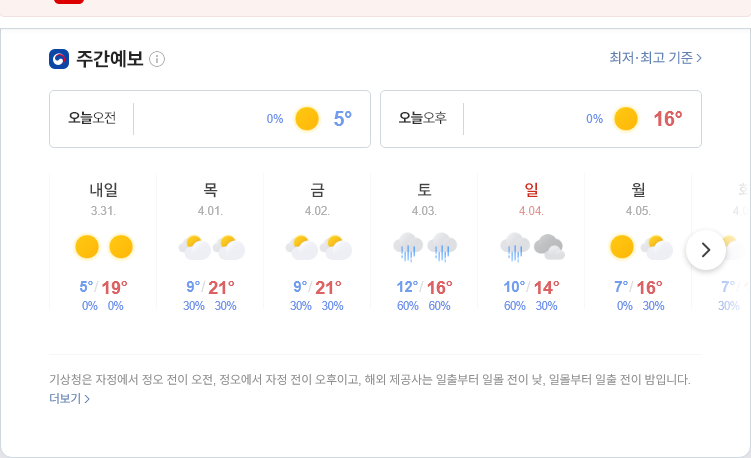
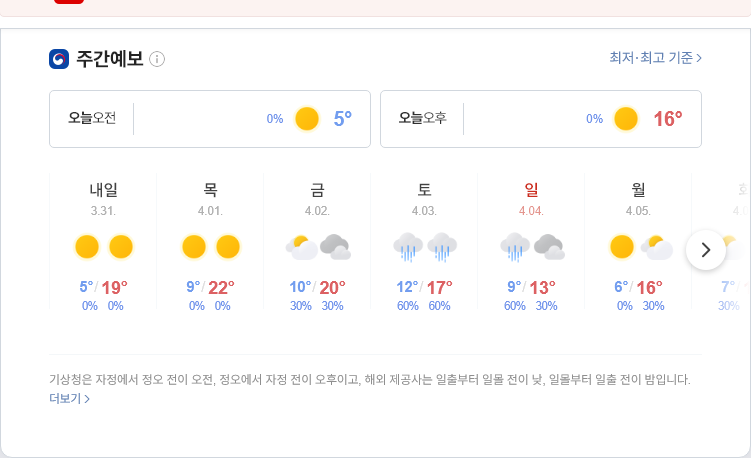
update result

diff --git a/README.md b/README.md
@@ -1,5 +1,5 @@
-##  2021-03-30 05:54:38   화요일 
-##### 날씨   -   어제보다 6° 낮아요맑음  
+##  2021-03-30 09:17:32   화요일 
+##### 날씨   -   어제보다 3° 낮아요맑음  
 <center><img src="../img/naver_weather_week.png"></center>
 ----
 ----
@@ -23,34 +23,34 @@
 ##### 시장
 <table border="1" bordercolor="blue" align = "center" >
 <tr align = "right" > <td>Item</td><td>Price</td><td>Diff</td><td>Rate</td><td>Buy</td><td>Sell</td><td>...</td>  </tr>
-<tr align = "right" > <td>USD</td><td>1,132.0</td><td>1.0</td><td><font size="3" color="red">0.09%</font></td><td><font size="3" color="black">1,110</font></td><td><font size="3" color="black">0</font></td><td>0</td>  </tr>
-<tr align = "right" > <td>WTI</td><td>60.97</td><td>2.41</td><td><font size="3" color="red">4.11%</font></td><td><font size="3" color="black">29.0</font></td><td><font size="3" color="black">0</font></td><td>0</td>  </tr>
-<tr align = "right" > <td>GOLD</td><td>1,732.0</td><td>7.2</td><td><font size="3" color="red">0.41%</font></td><td><font size="3" color="black">0</font></td><td><font size="3" color="black">0</font></td><td>0</td>  </tr>
+<tr align = "right" > <td>USD</td><td>1,133.0</td><td>0.5</td><td><font size="3" color="red">0.04%</font></td><td><font size="3" color="black">1,110</font></td><td><font size="3" color="black">0</font></td><td>0</td>  </tr>
+<tr align = "right" > <td>WTI</td><td>61.56</td><td>0.59</td><td><font size="3" color="red">0.96%</font></td><td><font size="3" color="black">29.0</font></td><td><font size="3" color="black">0</font></td><td>0</td>  </tr>
+<tr align = "right" > <td>GOLD</td><td>1,712.0</td><td>-20.1</td><td><font size="3" color="blue">-1.16%</font></td><td><font size="3" color="black">0</font></td><td><font size="3" color="black">0</font></td><td>0</td>  </tr>
 </table>
 ----
 ##### 주가
 <table border="1" bordercolor="blue" align = "center" >
 <tr align = "right" > <td>Item</td><td>Price</td><td>Diff</td><td>Rate</td><td>Purchased</td><td>Sell</td><td>Buy</td>  </tr>
-<tr align = "right" > <td>한국 전력</td><td>23,350</td><td>100</td><td><font size="3" color="red">0.43%</font></td><td>25,720</td><td><font size="3" color="black">27,700</font></td><td><font size="3" color="black">20,700</font></td>  </tr>
-<tr align = "right" > <td>삼성엔지니어.</td><td>13,950</td><td>250</td><td><font size="3" color="red">1.82%</font></td><td>18,935</td><td><font size="3" color="black">20,000</font></td><td><font size="3" color="black">8,000</font></td>  </tr>
-<tr align = "right" > <td>CJ CGV</td><td>27,850</td><td>-550</td><td><font size="3" color="blue">-1.94%</font></td><td>34,895</td><td><font size="3" color="black">36,000</font></td><td><font size="3" color="black">0</font></td>  </tr>
-<tr align = "right" > <td>아모레퍼시픽</td><td>262,500</td><td>4,500</td><td><font size="3" color="red">1.74%</font></td><td>235,350</td><td><font size="3" color="black">240,000</font></td><td><font size="3" color="black">130,000</font></td>  </tr>
-<tr align = "right" > <td>한화</td><td>30,500</td><td>300</td><td><font size="3" color="red">0.99%</font></td><td>25,550</td><td><font size="3" color="black">26,250</font></td><td><font size="3" color="black">26,250</font></td>  </tr>
-<tr align = "right" > <td>NAVER</td><td>372,000</td><td>-11,000</td><td><font size="3" color="blue">-2.87%</font></td><td>147,200</td><td><font size="3" color="black">386,000</font></td><td><font size="3" color="black">286,000</font></td>  </tr>
-<tr align = "right" > <td>LG 화학우</td><td>375,000</td><td>3,000</td><td><font size="3" color="red">0.81%</font></td><td>202,490</td><td><font size="3" color="black">384,000</font></td><td><font size="3" color="orangered">384,000</font></td>  </tr>
-<tr align = "right" > <td>스튜디오드래.</td><td>99,700</td><td>6,300</td><td><font size="3" color="red">6.75%</font></td><td>81,243</td><td><font size="3" color="black">85,200</font></td><td><font size="3" color="black">85,200</font></td>  </tr>
-<tr align = "right" > <td>QV미국IT</td><td>25,530</td><td>-200</td><td><font size="3" color="blue">-0.78%</font></td><td>0</td><td><font size="3" color="black">30,000</font></td><td><font size="3" color="black">20,000</font></td>  </tr>
-<tr align = "right" > <td>삼성 전자우</td><td>74,100</td><td>300</td><td><font size="3" color="red">0.41%</font></td><td>48,250</td><td><font size="3" color="black">56,000</font></td><td><font size="3" color="black">45,000</font></td>  </tr>
-<tr align = "right" > <td>LS</td><td>68,900</td><td>2,900</td><td><font size="3" color="red">4.39%</font></td><td>71,900</td><td><font size="3" color="black">82,000</font></td><td><font size="3" color="black">60,000</font></td>  </tr>
-<tr align = "right" > <td>한화에어로스.</td><td>40,850</td><td>850</td><td><font size="3" color="red">2.13%</font></td><td>25,700</td><td><font size="3" color="black">30,000</font></td><td><font size="3" color="black">24,000</font></td>  </tr>
-<tr align = "right" > <td>카카오</td><td>487,500</td><td>-7,500</td><td><font size="3" color="blue">-1.52%</font></td><td>405,500</td><td><font size="3" color="black">440,000</font></td><td><font size="3" color="black">400,000</font></td>  </tr>
-<tr align = "right" > <td>호텔 신라</td><td>86,400</td><td>-800</td><td><font size="3" color="blue">-0.92%</font></td><td>72,800</td><td><font size="3" color="black">100,000</font></td><td><font size="3" color="black">70,000</font></td>  </tr>
-<tr align = "right" > <td>S-Oil</td><td>80,500</td><td>-800</td><td><font size="3" color="blue">-0.98%</font></td><td>62,842</td><td><font size="3" color="black">100,000</font></td><td><font size="3" color="black">50,000</font></td>  </tr>
-<tr align = "right" > <td>LG전자</td><td>140,500</td><td>-2,500</td><td><font size="3" color="blue">-1.75%</font></td><td>82,022</td><td><font size="3" color="black">100,000</font></td><td><font size="3" color="black">60,000</font></td>  </tr>
-<tr align = "right" > <td>KT&G</td><td>80,200</td><td>-200</td><td><font size="3" color="blue">-0.25%</font></td><td>80,400</td><td><font size="3" color="black">100,000</font></td><td><font size="3" color="black">70,000</font></td>  </tr>
-<tr align = "right" > <td>지역난방공사</td><td>37,950</td><td>100</td><td><font size="3" color="red">0.26%</font></td><td>43,590</td><td><font size="3" color="black">60,000</font></td><td><font size="3" color="black">30,000</font></td>  </tr>
-<tr align = "right" > <td>KOEDX은행</td><td>7,120</td><td>70</td><td><font size="3" color="red">0.99%</font></td><td>5,178</td><td><font size="3" color="black">6,225</font></td><td><font size="3" color="black">6,225</font></td>  </tr>
-<tr align = "right" > <td>글로벌럭셔리</td><td>16,200</td><td>-20</td><td><font size="3" color="blue">-0.12%</font></td><td>15,260</td><td><font size="3" color="black">20,000</font></td><td><font size="3" color="black">10,000</font></td>  </tr>
-<tr align = "right" > <td>한국금융지주</td><td>86,100</td><td>-700</td><td><font size="3" color="blue">-0.81%</font></td><td>0</td><td><font size="3" color="black">82,000</font></td><td><font size="3" color="black">60,000</font></td>  </tr>
+<tr align = "right" > <td>한국 전력</td><td>23,350</td><td>0</td><td><font size="3" color="black">0.0%</font></td><td>25,720</td><td><font size="3" color="black">27,700</font></td><td><font size="3" color="black">20,700</font></td>  </tr>
+<tr align = "right" > <td>삼성엔지니어.</td><td>14,100</td><td>150</td><td><font size="3" color="red">1.08%</font></td><td>18,935</td><td><font size="3" color="black">20,000</font></td><td><font size="3" color="black">8,000</font></td>  </tr>
+<tr align = "right" > <td>CJ CGV</td><td>27,900</td><td>50</td><td><font size="3" color="red">0.18%</font></td><td>34,895</td><td><font size="3" color="black">36,000</font></td><td><font size="3" color="black">0</font></td>  </tr>
+<tr align = "right" > <td>아모레퍼시픽</td><td>259,500</td><td>-3,000</td><td><font size="3" color="blue">-1.14%</font></td><td>235,350</td><td><font size="3" color="black">240,000</font></td><td><font size="3" color="black">130,000</font></td>  </tr>
+<tr align = "right" > <td>한화</td><td>30,900</td><td>400</td><td><font size="3" color="red">1.31%</font></td><td>25,550</td><td><font size="3" color="black">26,250</font></td><td><font size="3" color="black">26,250</font></td>  </tr>
+<tr align = "right" > <td>NAVER</td><td>375,000</td><td>3,000</td><td><font size="3" color="red">0.81%</font></td><td>147,200</td><td><font size="3" color="black">386,000</font></td><td><font size="3" color="black">286,000</font></td>  </tr>
+<tr align = "right" > <td>LG 화학우</td><td>373,000</td><td>-2,000</td><td><font size="3" color="blue">-0.53%</font></td><td>202,490</td><td><font size="3" color="black">384,000</font></td><td><font size="3" color="orangered">384,000</font></td>  </tr>
+<tr align = "right" > <td>스튜디오드래.</td><td>99,000</td><td>-700</td><td><font size="3" color="blue">-0.7%</font></td><td>81,243</td><td><font size="3" color="black">85,200</font></td><td><font size="3" color="black">85,200</font></td>  </tr>
+<tr align = "right" > <td>QV미국IT</td><td>25,530</td><td>0</td><td><font size="3" color="black">0.0%</font></td><td>0</td><td><font size="3" color="black">30,000</font></td><td><font size="3" color="black">20,000</font></td>  </tr>
+<tr align = "right" > <td>삼성 전자우</td><td>73,600</td><td>-500</td><td><font size="3" color="blue">-0.67%</font></td><td>48,250</td><td><font size="3" color="black">56,000</font></td><td><font size="3" color="black">45,000</font></td>  </tr>
+<tr align = "right" > <td>LS</td><td>68,500</td><td>-400</td><td><font size="3" color="blue">-0.58%</font></td><td>71,900</td><td><font size="3" color="black">82,000</font></td><td><font size="3" color="black">60,000</font></td>  </tr>
+<tr align = "right" > <td>한화에어로스.</td><td>41,350</td><td>500</td><td><font size="3" color="red">1.22%</font></td><td>25,700</td><td><font size="3" color="black">30,000</font></td><td><font size="3" color="black">24,000</font></td>  </tr>
+<tr align = "right" > <td>카카오</td><td>491,000</td><td>3,500</td><td><font size="3" color="red">0.72%</font></td><td>405,500</td><td><font size="3" color="black">440,000</font></td><td><font size="3" color="black">400,000</font></td>  </tr>
+<tr align = "right" > <td>호텔 신라</td><td>86,700</td><td>300</td><td><font size="3" color="red">0.35%</font></td><td>72,800</td><td><font size="3" color="black">100,000</font></td><td><font size="3" color="black">70,000</font></td>  </tr>
+<tr align = "right" > <td>S-Oil</td><td>81,100</td><td>600</td><td><font size="3" color="red">0.75%</font></td><td>62,842</td><td><font size="3" color="black">100,000</font></td><td><font size="3" color="black">50,000</font></td>  </tr>
+<tr align = "right" > <td>LG전자</td><td>151,000</td><td>10,500</td><td><font size="3" color="red">7.47%</font></td><td>82,022</td><td><font size="3" color="black">100,000</font></td><td><font size="3" color="black">60,000</font></td>  </tr>
+<tr align = "right" > <td>KT&G</td><td>80,700</td><td>500</td><td><font size="3" color="red">0.62%</font></td><td>80,400</td><td><font size="3" color="black">100,000</font></td><td><font size="3" color="black">70,000</font></td>  </tr>
+<tr align = "right" > <td>지역난방공사</td><td>38,000</td><td>50</td><td><font size="3" color="red">0.13%</font></td><td>43,590</td><td><font size="3" color="black">60,000</font></td><td><font size="3" color="black">30,000</font></td>  </tr>
+<tr align = "right" > <td>KOEDX은행</td><td>7,255</td><td>135</td><td><font size="3" color="red">1.9%</font></td><td>5,178</td><td><font size="3" color="black">6,225</font></td><td><font size="3" color="black">6,225</font></td>  </tr>
+<tr align = "right" > <td>글로벌럭셔리</td><td>16,230</td><td>30</td><td><font size="3" color="red">0.19%</font></td><td>15,260</td><td><font size="3" color="black">20,000</font></td><td><font size="3" color="black">10,000</font></td>  </tr>
+<tr align = "right" > <td>한국금융지주</td><td>85,800</td><td>-300</td><td><font size="3" color="blue">-0.35%</font></td><td>0</td><td><font size="3" color="black">82,000</font></td><td><font size="3" color="black">60,000</font></td>  </tr>
 </table>
 ----
